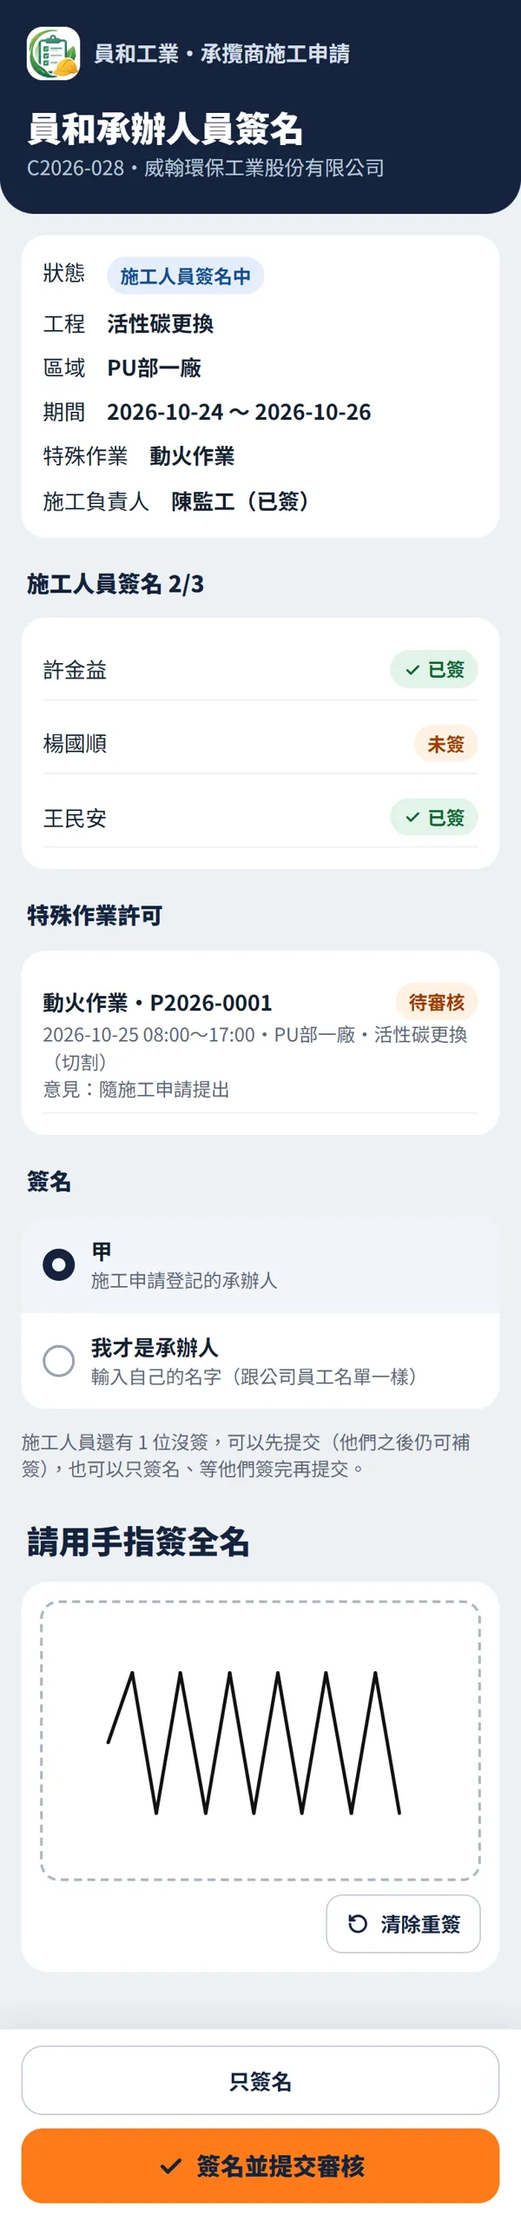
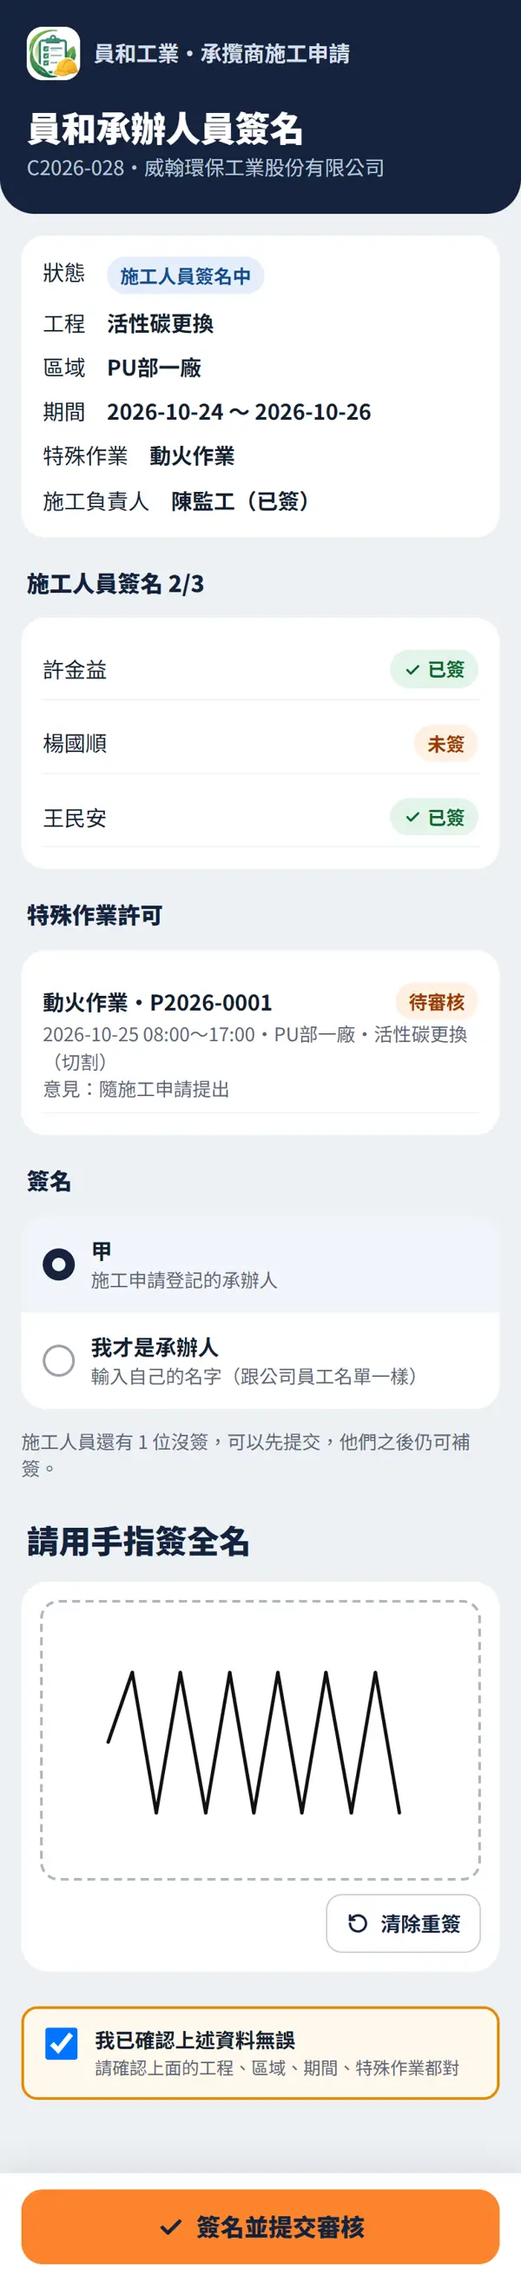
App v0.18.3（11 檔）

diff --git a/cons.js b/cons.js
@@ -13,7 +13,7 @@ var CN_ST_PILL = { '暫緩－文件不齊': 'warn', '施工人員簽名中': 'in
     '.cnwh{margin-bottom:2px}.cnwh span{font-size:13px;font-weight:800;color:var(--sub);padding-left:4px}.cnw .rm{min-height:44px;border:0;background:#F1F4F8;border-radius:10px;font-size:20px}.cnqr{display:flex;justify-content:center;margin:10px 0}.cnqr svg{width:220px;height:220px}' +
     '.cnno{background:#FFF8EC;border-left:4px solid #E58A00;border-radius:0 10px 10px 0;padding:10px 14px;margin:8px 0}.cnno b{display:block;margin-bottom:4px}.cnno li{margin:3px 0}' +
     '.cnwk{display:flex;justify-content:space-between;align-items:center;gap:8px;padding:8px 0;border-bottom:1px solid #EEF1F5}.cnagree{display:flex;gap:10px;align-items:flex-start;margin:12px 0;font-size:15px}' +
-    '.cnagree input{width:24px;height:24px;flex-shrink:0;margin-top:2px}.cnpm{border:1.5px solid #E58A00;border-radius:12px;padding:10px 12px;margin:10px 0;background:#FFFCF5}' +
+    '.cnagree input{width:24px;height:24px;flex-shrink:0;margin-top:2px}.cnok{border:2px solid #E58A00;border-radius:12px;padding:12px;background:#FFF8EC}.cnok small{display:block;color:#5A6472;font-size:13px;margin-top:2px}.cnpm{border:1.5px solid #E58A00;border-radius:12px;padding:10px 12px;margin:10px 0;background:#FFFCF5}' +
     '.cnpm h4{margin:0 0 6px;font-size:16px;color:#92400E}.cntd{display:flex;gap:10px;align-items:flex-start;padding:7px 0;border-bottom:1px solid #EEF1F5}.cntd i{flex-shrink:0;width:22px;height:22px;border-radius:50%;' +
     'display:inline-flex;align-items:center;justify-content:center;font-style:normal;font-weight:900;font-size:13px}.cntd .y{background:#DCFCE7;color:#166534}.cntd .n{background:#FEF3C7;color:#92400E}' +
     '.cntd small{display:block;color:var(--sub)}.cnqrbox{border:1.5px solid #D5DCE6;border-radius:12px;padding:10px 12px;margin:10px 0}.cnqrbox h4{margin:0;font-size:16px}' +
@@ -97,6 +97,28 @@ function cnKeep() {
   [].forEach.call(document.querySelectorAll('#app input.field, #app textarea.field'), function (el) { if (el.id && !el.dataset.wk) f[el.id] = el.value; });
 }
 function cnRedraw() { cnKeep(); var y = window.scrollY; render(); window.scrollTo(0, y); }
+/** 送出前的「我已確認上述資料無誤」（10/19 Jason：避免送了又改來改去）。沒勾，送出鍵不能按；畫面重畫（改了內容）就要重勾。 */
+function cnOk(btn, note) {
+  return '<label class="cnagree cnok"><input type="checkbox" id="cnOk" onchange="cnOkTog(' + jsq(btn) + ')"><span><b>我已確認上述資料無誤</b>' + (note ? '<small>' + esc(note) + '</small>' : '') + '</span></label>';
+}
+function cnOkTog(btn) { var b = $(btn), c = $('cnOk'); if (b && !/busy/.test(b.className)) b.disabled = !(c && c.checked); }
+function cnOkChk() { var c = $('cnOk'); if (c && !c.checked) { toast('請先勾「我已確認上述資料無誤」', 'err'); c.focus(); return false; } return true; }
+/** 施工申請暫存在這支手機（附件、簽名不存；7 天內回來可以接著填）。 */
+function cnDraftKey() { var P = S.cpub; return 'cons_draft:' + (P.i || 'v') + ':' + (P.vendor ? P.vendor.tax : ''); }
+function cnDraftGet() { try { var o = JSON.parse(localStorage.getItem(cnDraftKey()) || 'null'); return o && Date.now() - o.t < 7 * 864e5 ? o : null; } catch (e) { return null; } }
+function cnDraftPut(manual) {
+  var P = S.cpub; if (!P || P.kind !== 'apply' || !P.vendor || P.done) return;
+  if (manual) cnKeep();
+  var f = {}; Object.keys(P.f).forEach(function (k) { if (['files', 'commitFiles', 'agree'].indexOf(k) < 0) f[k] = P.f[k]; });
+  var has = f.caWork || f.caArea || (f.spec && f.spec.length) || (f.workers || []).some(function (w) { return w.name; });
+  if (!has) { if (manual) toast('還沒填任何內容', 'err'); return; }
+  try { localStorage.setItem(cnDraftKey(), JSON.stringify({ t: Date.now(), f: f })); if (manual) toast('已暫存在這支手機。附件和簽名不會暫存，回來送出前要重新上傳、簽名', 'ok', 5000); }
+  catch (e) { if (manual) toast('這支手機不能暫存（瀏覽器的無痕模式？）', 'err', 4000); }
+}
+function cnDraftDel() { try { localStorage.removeItem(cnDraftKey()); } catch (e) {} }
+function cnDraftClear() { if (!confirm('清除暫存、全部重新填？')) return; cnDraftDel(); var P = S.cpub; P.f = {}; P.drAt = 0; window.scrollTo(0, 0); render(); }
+var cnDraftT = 0;
+function cnDraftAuto() { clearTimeout(cnDraftT); cnDraftT = setTimeout(function () { cnKeep(); cnDraftPut(false); }, 1500); }
 function cnStCard(st, title, msg) { return '<div class="box ' + st + '"><div class="r">' + ic(st === 'ok' ? 'check' : 'warn', 22) + '<div class="bt">' + (title ? '<b>' + esc(title) + '</b>' : '') + '<div class="m">' + msg + '</div></div></div></div>'; }
 
 // ── 公開頁入口 ──
@@ -186,13 +208,19 @@ function cnApply() {
     bar('<button class="btn" id="caBtn" onclick="cnApplyPeek()">' + ic('arrow', 22, 2.6) + '下一步</button>');
     return;
   }
+  if (!P.drTried) { P.drTried = true; var dr = cnDraftGet(); if (dr && !f.caWork) { Object.assign(f, dr.f); P.drAt = dr.t; } }
+  else cnDraftPut(false);                                          // 勾選、增減人員會重畫：順便暫存
   $('app').innerHTML = '<div class="steps"><div class="done"><i></i><span>' + ic('check', 14, 3.2) + esc(P.vendor.name) + '</span></div><div class="cur"><i></i><span>2 施工內容・人員・簽名</span></div></div>' +
+    (P.drAt ? '<div class="box info"><div class="r">' + ic('info', 20) + '<div class="bt"><b>已帶回上次暫存的內容（' + esc(new Date(P.drAt).toLocaleString('zh-TW', { month: 'numeric', day: 'numeric', hour: '2-digit', minute: '2-digit' })) + '）</b>' +
+      '<div class="m">附件和簽名沒有暫存，送出前請重新上傳、簽名。<button class="btn ghost sm" onclick="cnDraftClear()">清除，重新填</button></div></div></div></div>' : '') +
     (P.vendor.commit ? '' : '<div class="box warn"><div class="r">' + ic('warn', 22) + '<div class="bt"><b>環安衛還沒確認貴公司的承攬商安全衛生承諾書</b><div class="m">可以先申請、施工人員可以先簽名；承諾書確認後才會進入審核。</div></div></div></div>' +
       '<label class="cnagree"><input type="checkbox" id="caCommitDecl"' + (f.commitDeclared ? ' checked' : '') + ' onchange="S.cpub.f.commitDeclared=this.checked"><span>本公司建檔時已提交承諾書（或已寄出用印正本）</span></label>' +
       '<div class="muted sm">還沒交的話，請把負責人簽名、蓋公司大小章的承諾書拍照或掃描，在這裡上傳：</div>' + cnFilesBoxK('commitFiles', 'caCommit', 2)) +
-    cnCaseForm(P.form, f) + cnFilesBox('caFiles', P.form) + cnAgree() + cnSigBox('施工負責人請簽全名') + '<div id="caErr"></div>';
-  bar('<button class="btn" id="caBtn" onclick="cnApplyGo()">' + ic('check', 22, 3) + '送出申請</button>');
+    cnCaseForm(P.form, f) + cnFilesBox('caFiles', P.form) + cnAgree() + cnSigBox('施工負責人請簽全名') +
+    cnOk('caBtn', '送出後要改，只能在員和承辦人員簽名前修改；送審後要等環安衛退回') + '<div id="caErr"></div>';
+  bar('<button class="btn ghost" onclick="cnDraftPut(true)">' + ic('down', 18, 2.4) + '暫存</button><button class="btn" id="caBtn" disabled onclick="cnApplyGo()">' + ic('check', 22, 3) + '送出申請</button>');
   sigInit();
+  if (!$('app').dataset.dr) { $('app').dataset.dr = '1'; $('app').addEventListener('input', function () { if (S.cpub && S.cpub.kind === 'apply') cnDraftAuto(); }); }
 }
 function cnApplyPeek() {
   var tax = cnV('caTax');
@@ -321,9 +349,10 @@ function cnApplyGo() {
   }
   if (!b.agree) return toast('請勾選已閱讀施工安全衛生規定', 'err');
   if (!SIG.drawn) return toast('施工負責人請簽名', 'err');
+  if (!cnOkChk()) return;
   b.image = sigExport(); if (!b.image) return toast('簽名太小，請簽大一點', 'err');
   cnBusy('caBtn', b.files.length ? '上傳中…（有附件會久一點）' : '送出中…');
-  cnPub('consPubApply', b).then(function (d) { S.cpub.done = d; window.scrollTo(0, 0); render(); })
+  cnPub('consPubApply', b).then(function (d) { cnDraftDel(); S.cpub.done = d; window.scrollTo(0, 0); render(); })
     .catch(function (e) { $('caErr').innerHTML = errBox('沒有送出', e.message); cnUnbusy('caBtn', '再送一次'); });
 }
 /** 兩組 QR（① 施工人員各自用自己的手機掃 ② 員和承辦人員掃）：申請完成頁、案件頁共用。 */
@@ -390,7 +419,11 @@ function cnCase() {
     '<div class="kv"><span>員和承辦</span><b>' + esc(d.handler) + (d.handlerSigned ? '（已簽）' : '') + '</b></div></div>';
   if (d.status !== '已核准' && d.status !== '已駁回') h += '<div class="sec">還要做的事</div><div class="card">' + d.todo.map(function (t) {
     return '<div class="cntd"><i class="' + (t.done ? 'y' : 'n') + '">' + (t.done ? '✓' : '!') + '</i><span><b>' + esc(t.label) + '</b>' + (t.note ? '<small>' + esc(t.note) + '</small>' : '') + '</span></div>'; }).join('') + '</div>';
-  if (d.canSubmit) h += '<button class="btn" id="cnSubBtn" onclick="cnPubSubmit()">' + ic('up', 20, 2.6) + '提交審核' + (left.length ? '（施工人員還有 ' + left.length + ' 位沒簽）' : '') + '</button>';
+  if (d.pmMissing && d.pmMissing.length && ['施工人員簽名中', '補件退回', '暫緩－文件不齊'].indexOf(d.status) >= 0)
+    h += '<div class="box bad"><div class="r">' + ic('warn', 22) + '<div class="bt"><b>「' + esc(d.pmMissing.join('、')) + '」還沒申請作業許可</b><div class="m">申請了特殊作業就要有許可單，沒有不能提交審核。' +
+      (d.canPermit ? '<button class="btn sm" onclick="cnPmStart()">' + ic('plus', 16, 2.6) + '現在申請</button>' : '') + '</div></div></div></div>';
+  if (d.canSubmit) h += (left.length ? '<div class="muted sm">施工人員還有 ' + left.length + ' 位沒簽（' + esc(left.map(function (w) { return w.name; }).join('、')) + '），可以先提交，他們之後仍可補簽。</div>' : '') +
+    cnOk('cnSubBtn') + '<button class="btn" id="cnSubBtn" disabled onclick="cnPubSubmit()">' + ic('up', 20, 2.6) + '提交審核</button>';
   if (d.status === '已核准') h += cnStCard('ok', '', '已核准，施工期間可進場。進場當天請先參加工具箱會議；入廠施工許可證等文件已寄到 Email。');
   h += '<div class="sec">施工人員簽名 ' + d.wSigned + '/' + d.workers.length + '<button class="btn ghost sm" onclick="S.cpub.reload=true;render()">' + ic('refresh', 16, 2.4) + '更新</button></div><div class="card">' +
     d.workers.map(function (w) {
@@ -416,8 +449,7 @@ function cnCase() {
   if (d.canQr) cnCase.t = setTimeout(function () { var Q = S.cpub; if (Q && Q.kind === 'case' && !Q.fix && !Q.pm && !(Q.f.files && Q.f.files.length) && !document.hidden) { Q.reload = true; var y = window.scrollY; render(); window.scrollTo(0, y); } }, 30000);
 }
 function cnPubSubmit() {
-  var d = S.cpub.d, left = d.workers.filter(function (w) { return !w.signed; });
-  if (!confirm(left.length ? '還有 ' + left.length + ' 位施工人員沒簽（' + left.map(function (w) { return w.name; }).join('、') + '）。\n先提交審核？（他們之後仍可補簽）' : '所有人都簽好了，提交審核？')) return;
+  if (!cnOkChk()) return;
   cnBusy('cnSubBtn', '提交中…');
   cnPub('consPubSubmit').then(function () { toast('已提交審核，環安衛審核後會寄 Email 通知', 'ok', 4500); S.cpub.reload = true; render(); })
     .catch(function (e) { $('cnErr').innerHTML = errBox('沒有提交', e.message); cnUnbusy('cnSubBtn', '提交審核'); });
@@ -444,8 +476,8 @@ function cnFixForm() {
   $('app').innerHTML = '<div class="muted">改完按「送出修改」。改了期間、區域或特殊作業，員和承辦人員要重新簽名。</div>' +
     '<div class="sec">已登記的施工人員<small>按 × 移除；已簽名的保留簽名</small></div><div class="card">' +
     (kept.length ? kept.map(function (w) { return '<div class="cnwk"><span>' + esc(w.name) + (w.signed ? '（已簽）' : '') + '</span><button type="button" class="rm btn ghost sm" onclick="cnKeepRm(' + w.seq + ')">×</button></div>'; }).join('') : '<div class="muted">（都移除了）</div>') + '</div>' +
-    cnCaseForm(P.form, f, true) + cnFilesBox('caFiles', P.form) + cnSigBox('換了施工負責人才需要簽名（沒換可以不簽）') + '<div id="caErr"></div>';
-  bar('<button class="btn ghost" onclick="S.cpub.fix=false;render()">取消</button><button class="btn" id="caBtn" onclick="cnFixGo()">' + ic('check', 22, 3) + '送出修改</button>');
+    cnCaseForm(P.form, f, true) + cnFilesBox('caFiles', P.form) + cnSigBox('換了施工負責人才需要簽名（沒換可以不簽）') + cnOk('caBtn') + '<div id="caErr"></div>';
+  bar('<button class="btn ghost" onclick="if(confirm(\'放棄這次修改？\')){S.cpub.fix=false;render()}">取消</button><button class="btn" id="caBtn" disabled onclick="cnFixGo()">' + ic('check', 22, 3) + '送出修改</button>');
   sigInit();
 }
 function cnKeepRm(seq) { var k = S.cpub.keep.indexOf(seq); if (k >= 0) S.cpub.keep.splice(k, 1); cnWk(-2); }
@@ -453,6 +485,7 @@ function cnFixGo() {
   cnKeep();
   var b = cnCaseBody(); b.keep = S.cpub.keep;
   if (SIG.drawn) { b.image = sigExport(); if (!b.image) return toast('簽名太小，請簽大一點', 'err'); }
+  if (!cnOkChk()) return;
   cnBusy('caBtn', '送出中…');
   cnPub('consPubFix', b).then(function (r) {
     S.cpub.fix = false; S.cpub.f = {}; S.cpub.reload = true; window.scrollTo(0, 0); render();
@@ -540,8 +573,9 @@ function cnHSign() {
     (d.permits.length ? '<div class="sec">特殊作業許可</div>' + cnPmList(d.permits, false) : '');
   if (d.handlerSigned) {
     h = cnStCard('ok', '承辦人員已簽名（' + d.handlerSignedBy + '）', d.status === '待審核' ? '已提交，環安衛審核中。這個畫面可以關閉。' : d.canSubmit ? '可以提交審核了。' : '') + h;
-    $('app').innerHTML = h + '<div id="hsErr"></div>';
-    bar(d.canSubmit ? '<button class="btn" id="hsBtn" onclick="cnHSubmit()">' + ic('up', 20, 2.6) + '提交審核</button>' : '');
+    if (d.status === '施工人員簽名中' && !d.canSubmit) h += cnStCard('warn', '還不能提交', !d.supSigned ? '施工負責人還沒簽名。' : d.pmMissing && d.pmMissing.length ? '廠商還沒申請「' + esc(d.pmMissing.join('、')) + '」作業許可，請施工負責人在案件頁申請。' : '');
+    $('app').innerHTML = h + (d.canSubmit ? cnOk('hsBtn') : '') + '<div id="hsErr"></div>';
+    bar(d.canSubmit ? '<button class="btn" id="hsBtn" disabled onclick="cnHSubmit()">' + ic('up', 20, 2.6) + '提交審核</button>' : '');
     return;
   }
   if (!d.canSign) {
@@ -553,22 +587,25 @@ function cnHSign() {
     '<button class="li' + (!P.f.hsOther ? ' sel' : '') + '" onclick="S.cpub.f.hsOther=false;cnRedraw()"><span class="radio"></span><span class="mn"><span class="nm">' + esc(d.handler) + '</span><span class="mt">施工申請登記的承辦人</span></span></button>' +
     '<button class="li' + (P.f.hsOther ? ' sel' : '') + '" onclick="S.cpub.f.hsOther=true;cnRedraw()"><span class="radio"></span><span class="mn"><span class="nm">我才是承辦人</span><span class="mt">輸入自己的名字（跟公司員工名單一樣）</span></span></button></div>' +
     (P.f.hsOther ? cnField('hsName', '您的姓名', P.f.hsName, { max: 10 }) : '') +
-    (left.length ? '<div class="muted sm">施工人員還有 ' + left.length + ' 位沒簽，可以先提交（他們之後仍可補簽），也可以只簽名、等他們簽完再提交。</div>' : '') +
-    cnSigBox('請用手指簽全名') + '<div id="hsErr"></div>';
+    (left.length ? '<div class="muted sm">施工人員還有 ' + left.length + ' 位沒簽，可以先提交，他們之後仍可補簽。</div>' : '') +
+    cnSigBox('請用手指簽全名') + cnOk('hsBtn', '請確認上面的工程、區域、期間、特殊作業都對') + '<div id="hsErr"></div>';
   $('app').innerHTML = h;
-  bar('<button class="btn ghost" id="hsBtn2" onclick="cnHSignGo(false)">只簽名</button><button class="btn" id="hsBtn" onclick="cnHSignGo(true)">' + ic('check', 22, 3) + '簽名並提交審核</button>');
+  bar('<button class="btn" id="hsBtn" disabled onclick="cnHSignGo()">' + ic('check', 22, 3) + '簽名並提交審核</button>');
   sigInit();
 }
-function cnHSignGo(submit) {
+function cnHSignGo() {
   var P = S.cpub, name = P.f.hsOther ? cnV('hsName') : P.d.handler;
   if (!name) return toast('請輸入您的姓名', 'err');
   if (!SIG.drawn) return toast('請先簽名', 'err');
   var img = sigExport(); if (!img) return toast('簽名太小，請簽大一點', 'err');
-  cnBusy(submit ? 'hsBtn' : 'hsBtn2', '送出中…');
-  cnPub('consPubHandlerSign', { name: name, image: img, submit: submit }).then(function (r) { toast(r.status === '待審核' ? '已簽名並提交審核' : '已簽名', 'ok', 4000); P.reload = true; render(); })
-    .catch(function (e) { $('hsErr').innerHTML = errBox('沒有送出', e.message); cnUnbusy('hsBtn', '簽名並提交審核'); cnUnbusy('hsBtn2', '只簽名'); });
+  if (!cnOkChk()) return;
+  cnBusy('hsBtn', '送出中…');
+  cnPub('consPubHandlerSign', { name: name, image: img, submit: true }).then(function (r) {
+    toast(r.status === '待審核' ? '已簽名並提交審核' : '已簽名。' + (r.held ? '還不能提交：' + r.held : ''), r.held ? 'err' : 'ok', r.held ? 7000 : 4000); P.reload = true; render(); })
+    .catch(function (e) { $('hsErr').innerHTML = errBox('沒有送出', e.message); cnUnbusy('hsBtn', '簽名並提交審核'); });
 }
 function cnHSubmit() {
+  if (!cnOkChk()) return;
   cnBusy('hsBtn', '提交中…');
   cnPub('consPubHandlerSign', { submitOnly: true }).then(function () { toast('已提交審核', 'ok'); S.cpub.reload = true; render(); })
     .catch(function (e) { $('hsErr').innerHTML = errBox('沒有提交', e.message); cnUnbusy('hsBtn', '提交審核'); });
@@ -649,22 +686,63 @@ function cnCaseStaff(d) {
   if (d.pmTypes && d.pmTypes.length) h += '<div class="sec">特殊作業許可<small>' + esc(d.pmTypes.join('、')) + '</small></div>' + cnPmList(d.permits, d.canPmReview);
   h += '<div class="sec">歷程</div><div class="card">' + d.history.map(function (x) { return '<div class="cnwk"><span><b>' + esc(x.act) + '</b>' + (x.note ? '・' + esc(x.note) : '') + '<br><small class="muted">' + esc(x.who) + '</small></span><small class="muted">' + esc(x.at.slice(5)) + '</small></div>'; }).join('') + '</div>';
   if (d.comment) h += '<div class="box info"><div class="r">' + ic('info', 20) + '<div class="bt"><b>審核意見</b><div class="m">' + esc(d.comment).replace(/\n/g, '<br>') + '</div></div></div></div>';
-  $('app').innerHTML = h + '<div id="cnErr"></div>';
+  if (S.cnEdit && S.cnEdit.id === d.id) return cnEhsEditForm(d, h);
+  if (d.canEhsEdit) h += '<button class="btn line" onclick="cnEhsEditStart()">' + ic('pen', 18, 2.4) + '修改廠商申請內容（特殊作業勾錯、漏勾）</button>';
+  if (d.pmMissing && d.pmMissing.length && ['施工人員簽名中', '待審核', '補件退回'].indexOf(d.status) >= 0) h += cnStCard('warn', '「' + d.pmMissing.join('、') + '」還沒有作業許可', '要請施工負責人在案件連結申請，沒有不能提交審核。');
   var left = d.workers.length - d.wSigned;
-  if (d.canSign) bar('<button class="btn" id="cnBtn" onclick="cnHandlerSign()">' + ic('pen', 20, 2.4) + '簽名並提交審核' + (left ? '（' + left + ' 位未簽）' : '') + '</button>');
-  else if (d.canSubmit) bar('<button class="btn" id="cnBtn" onclick="cnSubmit()">' + ic('up', 20, 2.6) + '提交審核</button>');
+  if (d.canSign || d.canSubmit) h += cnOk('cnBtn', left ? '施工人員還有 ' + left + ' 位沒簽，可以先提交，他們之後仍可補簽' : '');
+  $('app').innerHTML = h + '<div id="cnErr"></div>';
+  if (d.canSign) bar('<button class="btn" id="cnBtn" disabled onclick="cnHandlerSign()">' + ic('pen', 20, 2.4) + '簽名並提交審核' + (left ? '（' + left + ' 位未簽）' : '') + '</button>');
+  else if (d.canSubmit) bar('<button class="btn" id="cnBtn" disabled onclick="cnSubmit()">' + ic('up', 20, 2.6) + '提交審核</button>');
   else if (d.canReview) bar('<button class="btn ghost" onclick="cnReview(\'return\')">退回補件</button><button class="btn ghost" onclick="cnReview(\'reject\')">駁回</button><button class="btn" id="cnBtn" onclick="cnReview(\'approve\')">' + ic('check', 20, 3) + '核准</button>');
   else bar('');
 }
 function cnFileGet(fid) { toast('下載中…', '', 1500); api('consFile', { id: S.cnD.id, fid: fid }).then(cnB64Save).catch(function (e) { toast(esc(e.message), 'err', 4000); }); }
 function cnAfter(msg) { return function () { toast(msg, 'ok', 3500); rcClear(); render(); }; }
 function cnErr(e) { var el = $('cnErr'); if (el) el.innerHTML = errBox('沒有完成', e.message); var b = $('cnBtn'); if (b) { b.disabled = false; b.className = 'btn'; b.textContent = '再試一次'; } }
-function cnLeftOk() {
-  var d = S.cnD, left = d.workers.filter(function (w) { return !w.signed; });
-  return !left.length || confirm('還有 ' + left.length + ' 位施工人員沒簽（' + left.map(function (w) { return w.name; }).join('、') + '）。\n先提交審核？（他們之後仍可補簽）');
+function cnHandlerSign() { if (!cnOkChk()) return; cnBusy('cnBtn', '簽名中…'); api('consHandlerSign', { id: S.cnD.id, submit: true }).then(function (r) { cnAfter(r.status === '待審核' ? '已簽名並提交審核' : '已簽名。' + (r.held ? '還不能提交：' + r.held : ''))(); }).catch(cnErr); }
+function cnSubmit() { if (!cnOkChk()) return; cnBusy('cnBtn', '提交中…'); api('consSubmit', { id: S.cnD.id }).then(cnAfter('已提交審核')).catch(cnErr); }
+/** 環安衛修改廠商的申請內容（10/19 Jason：廠商常把特殊作業勾錯、漏勾）。 */
+function cnEhsEditStart() {
+  var d = S.cnD;
+  S.cnEdit = { id: d.id, spec: (d.specRaw || []).slice(), hot: (d.hotRaw || []).slice(), situ: (d.situRaw || []).slice(), env: (d.envRaw || []).slice(), area: d.area, why: '' };
+  cnCaseStaff(d); window.scrollTo(0, 0);
 }
-function cnHandlerSign() { if (!cnLeftOk()) return; cnBusy('cnBtn', '簽名中…'); api('consHandlerSign', { id: S.cnD.id, submit: true }).then(function (r) { cnAfter(r.status === '待審核' ? '已簽名並提交審核' : '已簽名')(); }).catch(cnErr); }
-function cnSubmit() { if (!cnLeftOk()) return; cnBusy('cnBtn', '提交中…'); api('consSubmit', { id: S.cnD.id }).then(cnAfter('已提交審核')).catch(cnErr); }
+function cnEeKeep() { var E = S.cnEdit; if (!E) return; if ($('eeArea')) E.area = $('eeArea').value; if ($('eeWhy')) E.why = $('eeWhy').value; }
+function cnEeTog(k, x) { cnEeKeep(); var a = S.cnEdit[k], i = a.indexOf(x); if (i >= 0) a.splice(i, 1); else a.push(x); var y = window.scrollY; cnCaseStaff(S.cnD); window.scrollTo(0, y); }
+function cnEeChips(k, list) {
+  var sel = S.cnEdit[k];
+  return '<div class="cwrap">' + list.map(function (x) { var on = sel.indexOf(x) >= 0; return '<button type="button" class="chip' + (on ? ' on' : '') + '" onclick="cnEeTog(' + jsq(k) + ',' + jsq(x) + ')">' + (on ? ic('check', 14, 3) : '') + esc(x) + '</button>'; }).join('') + '</div>';
+}
+function cnEhsEditForm(d, h) {
+  var E = S.cnEdit, o = d.form || {}, was = d.specRaw || [], pmList = ['動火作業', '吊掛作業', '局限空間作業', '高架作業'];
+  var add = E.spec.filter(function (x) { return was.indexOf(x) < 0; }), rm = was.filter(function (x) { return E.spec.indexOf(x) < 0; });
+  var addPm = add.filter(function (x) { return pmList.indexOf(x) >= 0; });
+  var f = '<div class="sec" id="eeTop">修改廠商申請內容<small>改完會記進歷程、Email 通知廠商</small></div><div class="card">' +
+    '<label class="nl">特殊作業</label>' + cnEeChips('spec', o.spec || []) +
+    (E.spec.indexOf('動火作業') >= 0 ? '<label class="nl req">動火方式</label>' + cnEeChips('hot', o.hot || []) : '') +
+    '<label class="nl">施工期間可能產生的狀況</label>' + cnEeChips('situ', o.situ || []) +
+    '<label class="nl">施工環境可能的危害</label>' + cnEeChips('env', o.env || []) +
+    '<label class="nl req" for="eeArea">施工區域</label><input class="field" id="eeArea" maxlength="40" value="' + esc(E.area || '') + '">' +
+    '<label class="nl req" for="eeWhy">修改原因（廠商會看到）</label><textarea class="field" id="eeWhy" rows="2" maxlength="200" placeholder="例：只是更換燈具，不是高架作業">' + esc(E.why || '') + '</textarea></div>' +
+    (add.length || rm.length ? '<div class="box ' + (addPm.length ? 'warn' : 'info') + '"><div class="r">' + ic(addPm.length ? 'warn' : 'info', 20) + '<div class="bt"><b>這次的變動</b><div class="m">' +
+      (add.length ? '加上：' + esc(add.join('、')) + '<br>' : '') + (rm.length ? '拿掉：' + esc(rm.join('、')) + '（還沒核准的許可會一併取消）<br>' : '') +
+      (addPm.length ? '<b>「' + esc(addPm.join('、')) + '」要作業許可：存檔後案件會退回補件，請廠商申請許可後重新送出。</b>' : '') + '</div></div></div></div>' : '');
+  $('app').innerHTML = f + h + '<div id="cnErr"></div>';
+  bar('<button class="btn ghost" onclick="S.cnEdit=null;cnCaseStaff(S.cnD)">取消</button><button class="btn" id="cnBtn" onclick="cnEhsEditGo()">' + ic('check', 20, 3) + '儲存修改</button>');
+}
+function cnEhsEditGo() {
+  cnEeKeep();
+  var E = S.cnEdit;
+  if (String(E.why || '').trim().length < 2) { toast('請寫修改原因（廠商會看到）', 'err'); if ($('eeWhy')) $('eeWhy').focus(); return; }
+  if (E.spec.indexOf('動火作業') >= 0 && !E.hot.length) return toast('有動火作業，請勾動火方式', 'err');
+  if (!String(E.area || '').trim()) return toast('施工區域不能空白', 'err');
+  cnBusy('cnBtn', '儲存中…');
+  api('consEhsEdit', { id: E.id, spec: E.spec, hot: E.spec.indexOf('動火作業') >= 0 ? E.hot : [], situ: E.situ, env: E.env, area: String(E.area).trim(), comment: String(E.why).trim() }).then(function (r) {
+    S.cnEdit = null;
+    cnAfter('已修改並通知廠商' + (r.needPermit && r.needPermit.length ? '；已退回補件，請廠商申請「' + r.needPermit.join('、') + '」許可' : '') + (r.cancelled && r.cancelled.length ? '；取消 ' + r.cancelled.length + ' 張許可' : ''))();
+  }).catch(cnErr);
+}
 function cnReview(dec) {
   var name = { approve: '核准', 'return': '退回補件', reject: '駁回' }[dec], d = S.cnD;
   if (dec === 'approve' && d.gaps && d.gaps.length && !confirm('還有：\n' + d.gaps.join('\n') + '\n\n仍要核准？（會記進歷程）')) return;
@@ -746,7 +824,7 @@ function cnGasStart(pid) {
 }
 function cnPmStart() {
   var d = S.cpub.d;
-  S.cpub.pm = true; S.cpub.f = { types: d.pmTypes.length === 1 ? d.pmTypes.slice() : [], pmSup: d.sup, pmArea: d.area, chk: {} };
+  S.cpub.pm = true; S.cpub.f = { types: d.pmMissing && d.pmMissing.length ? d.pmMissing.slice() : d.pmTypes.length === 1 ? d.pmTypes.slice() : [], pmSup: d.sup, pmArea: d.area, chk: {} };
   window.scrollTo(0, 0); render();
 }
 function cnPmTogChk(t, i) { var c = S.cpub.f.chk[t] = S.cpub.f.chk[t] || []; c[i] = !c[i]; cnPmKeep(); var y = window.scrollY; render(); window.scrollTo(0, y); }

diff --git a/plat.js b/plat.js
@@ -1,7 +1,7 @@
 /* 員和環安衛系統：平台層——主選單、功能權限、環保抄表、施工申請、環安衛教育訓練。
    app.js 是「日常檢點」這個功能；本檔在 app.js 之前載入，頁面與圖示在 app.js 建 PAGES／ICON 時併進去。
    新增功能的做法：MODS 加一筆（key、名稱、圖示、頁面）→ 後端 MODS／功能權限頁加一欄 → 這裡寫頁面。 */
-var PLAT_VER = '0.18.2';                                   // 要跟 app.js 的 APP_VERSION 一樣（打包時會檢查）
+var PLAT_VER = '0.18.3';                                   // 要跟 app.js 的 APP_VERSION 一樣（打包時會檢查）
 /** 新舊檔混用自救：App 開啟時網路慢，Service Worker 會拿手機裡的舊檔頂上，可能 app.js、plat.js 一新一舊而卡在載入中。
  *  兩支檔各帶版本號，對不上就清掉手機裡存的程式檔、重新載入一次（60 秒內只做一次，不會一直重整）。 */
 function platHeal() {

diff --git a/sw.js b/sw.js
@@ -1,5 +1,5 @@
 // 作業檢點 PWA：程式檔「有網路先抓新的、沒網路用手機裡的」（v0.7.1 起，改版後打開 App 就是新版）；Google 後端一律不快取
-var CACHE = 'chk-v0.18.2';
+var CACHE = 'chk-v0.18.3';
 var FILES = ['./', './index.html', './qrcode.js', './plat.js', './cons.js', './app.js', './check.js', './manifest.json', './icon-192.png', './icon-512.png'];
 // 畫面翻譯檔：抓不到也不影響安裝（App 會退回中文）
 var OPTIONAL = ['./i18n.js', './i18n_dict.js'].concat(['explode', 'flame', 'oxid', 'gas', 'corrode', 'skull', 'health', 'warn', 'env'].map(function (k) { return './ghs-' + k + '.svg'; })).concat(['W021', 'W008', 'M018', 'W016', 'W015', 'W012', 'W014', 'M016', 'W023'].map(function (k) { return './iso-' + k + '.svg'; }));   // 10/19：高風險作業卡的 ISO 7010 安全標誌   // 10/15：GHS 圖也先存進手機，沒網路照樣顯示

diff --git a/app.js b/app.js
@@ -6,7 +6,7 @@
  *         後端呼叫加 rid 比對。後端 API、手機存的資料名稱、送出流程、簽名邏輯都沒有改。
  */
 'use strict';
-var APP_VERSION = '0.18.2';
+var APP_VERSION = '0.18.3';
 // plat.js 跟本檔版本對不上＝新舊檔混用（網路慢時 Service Worker 拿舊檔頂上）：清掉手機裡的程式檔重新載入一次
 if (typeof PLAT_VER === 'string' && PLAT_VER !== APP_VERSION) window.addEventListener('load', function () { if (window.platHeal) platHeal(); else location.reload(); });
 // 部署後把網址填在這裡，現場人員就不用自己設定；空白時第一次開會請使用者貼上
